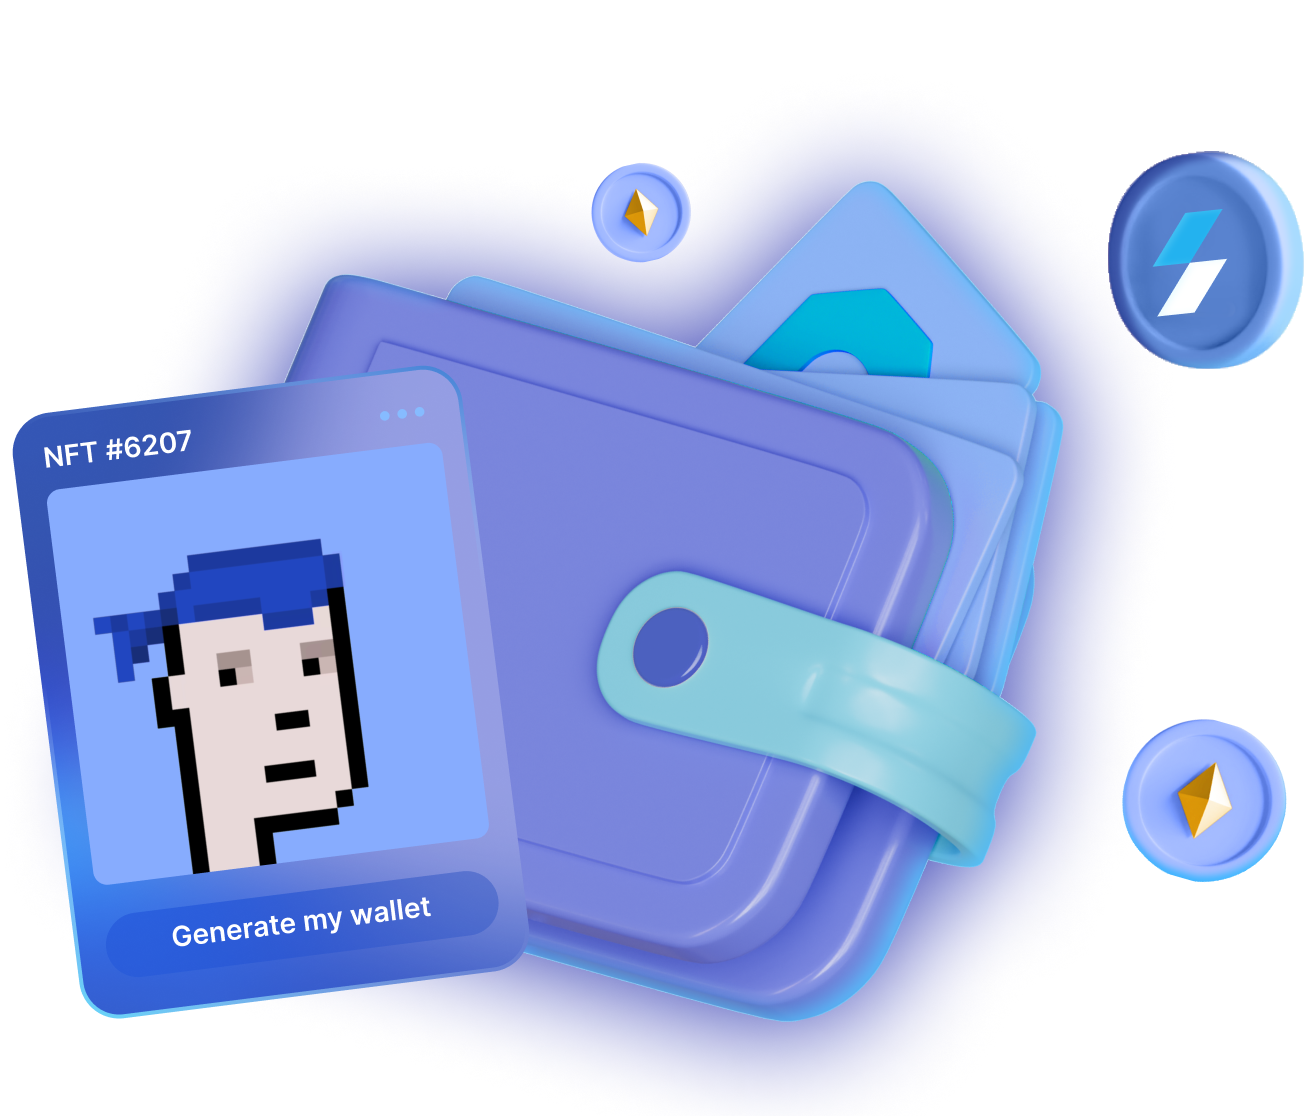
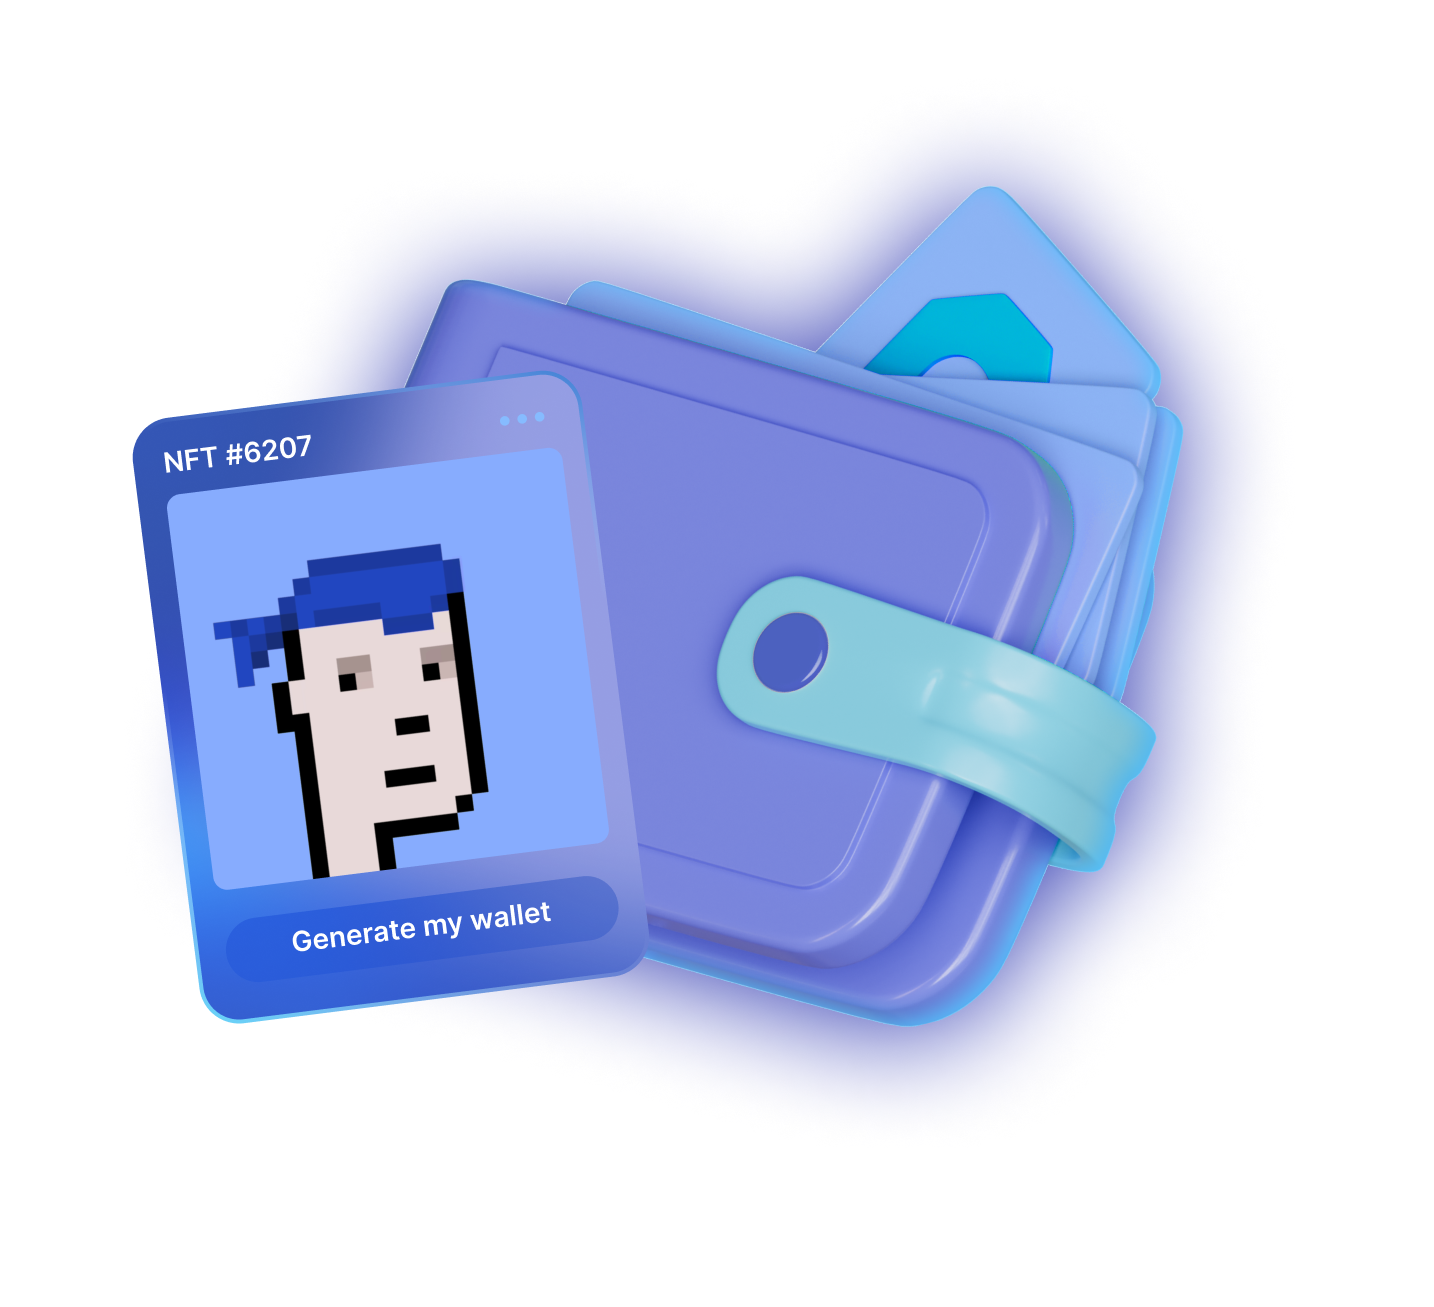
update: NftAccount generator page animation

diff --git a/src/pages/Nft/NftAccount.tsx b/src/pages/Nft/NftAccount.tsx
@@ -1,6 +1,9 @@
-import { Box, Typography, styled } from '@mui/material'
+import { Box, Typography, keyframes, styled } from '@mui/material'
 import Nft_bgImage from 'assets/images/nft_bg.png'
 import NftImage from 'assets/images/nft_r.png'
+import Coin_1 from 'assets/images/coin_1.png'
+import Coin_2 from 'assets/images/coin_2.png'
+import Coin_3 from 'assets/images/coin_3.png'
 import { ReactComponent as NftAccountTxt } from 'assets/svg/nftAccount_txt.svg'
 import Button from 'components/Button/Button'
 import { useNavigate } from 'react-router-dom'
@@ -9,6 +12,25 @@ import { useWalletModalToggle } from 'state/application/hooks'
 import { useLoginSignature, useUserInfo } from 'state/userInfo/hooks'
 import { useActiveWeb3React } from 'hooks'
 import useBreakpoint from 'hooks/useBreakpoint'
+
+const conin1_key = keyframes`
+0% { transform: translateY(0); }
+25% { transform: translateY(-5px); }
+75% { transform: translateY(5px); }
+100% { transform: translateY(0); }
+`
+const conin2_key = keyframes`
+0% { transform: translateY(0); }
+25% { transform: translateY(5px); }
+75% { transform: translateY(-5px); }
+100% { transform: translateY(0); }
+`
+const conin3_key = keyframes`
+0% { transform: translateY(0); }
+25% { transform: translateY(-5px); }
+75% { transform: translateY(5px); }
+100% { transform: translateY(0); }
+`
 
 const TitleStyle = styled(Box)(() => ({
   display: 'flex',
@@ -51,7 +73,8 @@ export function NftAccount() {
           style={{
             height: isMdDown ? 'auto' : 300,
             alignItems: isMdDown ? 'center' : 'normal',
-            textAlign: isMdDown ? 'center' : 'left'
+            textAlign: isMdDown ? 'center' : 'left',
+            marginBottom: isMdDown ? '0' : '50px'
           }}
         >
           <NftAccountTxt />
@@ -70,8 +93,59 @@ export function NftAccount() {
             Create my NFT account
           </CreateNftButton>
         </TitleStyle>
-        <Box sx={{ display: 'flex', justifyContent: 'center' }}>
-          <img src={NftImage} alt="" width={663} height={582} />
+        <Box
+          sx={{
+            textAlign: 'center',
+            width: isMdDown ? '70vw' : 631,
+            height: isMdDown ? '70vw' : 557,
+            position: 'relative'
+          }}
+        >
+          <img
+            src={NftImage}
+            alt=""
+            style={{
+              width: isMdDown ? '70vw' : 631,
+              height: isMdDown ? '70vw' : 557
+            }}
+          />
+          <Box
+            sx={{
+              width: '49.68px',
+              height: '49.03px',
+              position: 'absolute',
+              top: 60,
+              left: isMdDown ? '37vw' : 320,
+              animation: `${conin1_key} 5s linear infinite`
+            }}
+          >
+            <img src={Coin_1} alt="" width={'100%'} height={'100%'} />
+          </Box>
+
+          <Box
+            sx={{
+              width: '98px',
+              height: '109px',
+              position: 'absolute',
+              top: 55,
+              right: -15,
+              animation: `${conin2_key} 5s linear infinite`
+            }}
+          >
+            <img src={Coin_2} alt="" width={'100%'} height={'100%'} />
+          </Box>
+          <Box
+            sx={{
+              width: '81.42px',
+              height: '80.35px',
+              position: 'absolute',
+              bottom: isMdDown ? '20vw' : 170,
+              right: 0,
+              animation: `${conin3_key} 5s linear infinite`
+            }}
+          >
+            <img src={Coin_3} alt="" width={'100%'} height={'100%'} />
+          </Box>
         </Box>
       </Box>
     </NftLayout>

diff --git a/src/hooks/useTBA.ts b/src/hooks/useTBA.ts
@@ -4,6 +4,7 @@ import { useCallback, useMemo } from 'react'
 import { useTransactionAdder } from 'state/transactions/hooks'
 import { isAddress } from 'ethers/lib/utils'
 import { useContractIsDeploy } from './useContractIsDeploy'
+// import { useTokenContract } from './useContract'
 
 export function useCreateTBACallback(tokenContract?: `0x${string}`, tokenId?: string) {
   const { account, chainId, library } = useActiveWeb3React()
@@ -67,9 +68,31 @@ export function useCreateTBACallback(tokenContract?: `0x${string}`, tokenId?: st
     }
   }, [account, addTransaction, chainId, getAccount, isDeploy, library, tokenContract, tokenId, tokenboundClient])
 
+  // const erc20Contract = useTokenContract('0x21C3ac8c6E5079936A59fF01639c37F36CE5ed9E')
+  // const transfer = useCallback(
+  //   (to: string, value: string) => {
+  //     return erc20Contract?.interface.encodeFunctionData('transfer', [to, value])
+  //   },
+  //   [erc20Contract?.interface]
+  // )
+
+  // const send = async () => {
+  //   const data = transfer('0xF2da7b9CDb35Dc7c8e875DE0241b02376825CF86', '10000')
+  //   if (!data || !getAccount) return
+  //   const tranData = await tokenboundClient?.prepareExecuteCall({
+  //     account: getAccount,
+  //     to: '0x21C3ac8c6E5079936A59fF01639c37F36CE5ed9E',
+  //     value: BigInt(0),
+  //     data
+  //   })
+
+  //   if (tranData) await library?.getSigner().sendTransaction(tranData)
+  // }
+
   return {
     isDeploy,
     getAccount,
     createAccountCallback
+    // send
   }
 }

diff --git a/src/components/Header/MySpace.tsx b/src/components/Header/MySpace.tsx
@@ -232,7 +232,7 @@ export default function MySpace() {
                   ))}
                 </Box>
               ) : (
-                <Box>
+                <Box padding={'15px 0'}>
                   <EmptyData>No data</EmptyData>
                 </Box>
               )}
